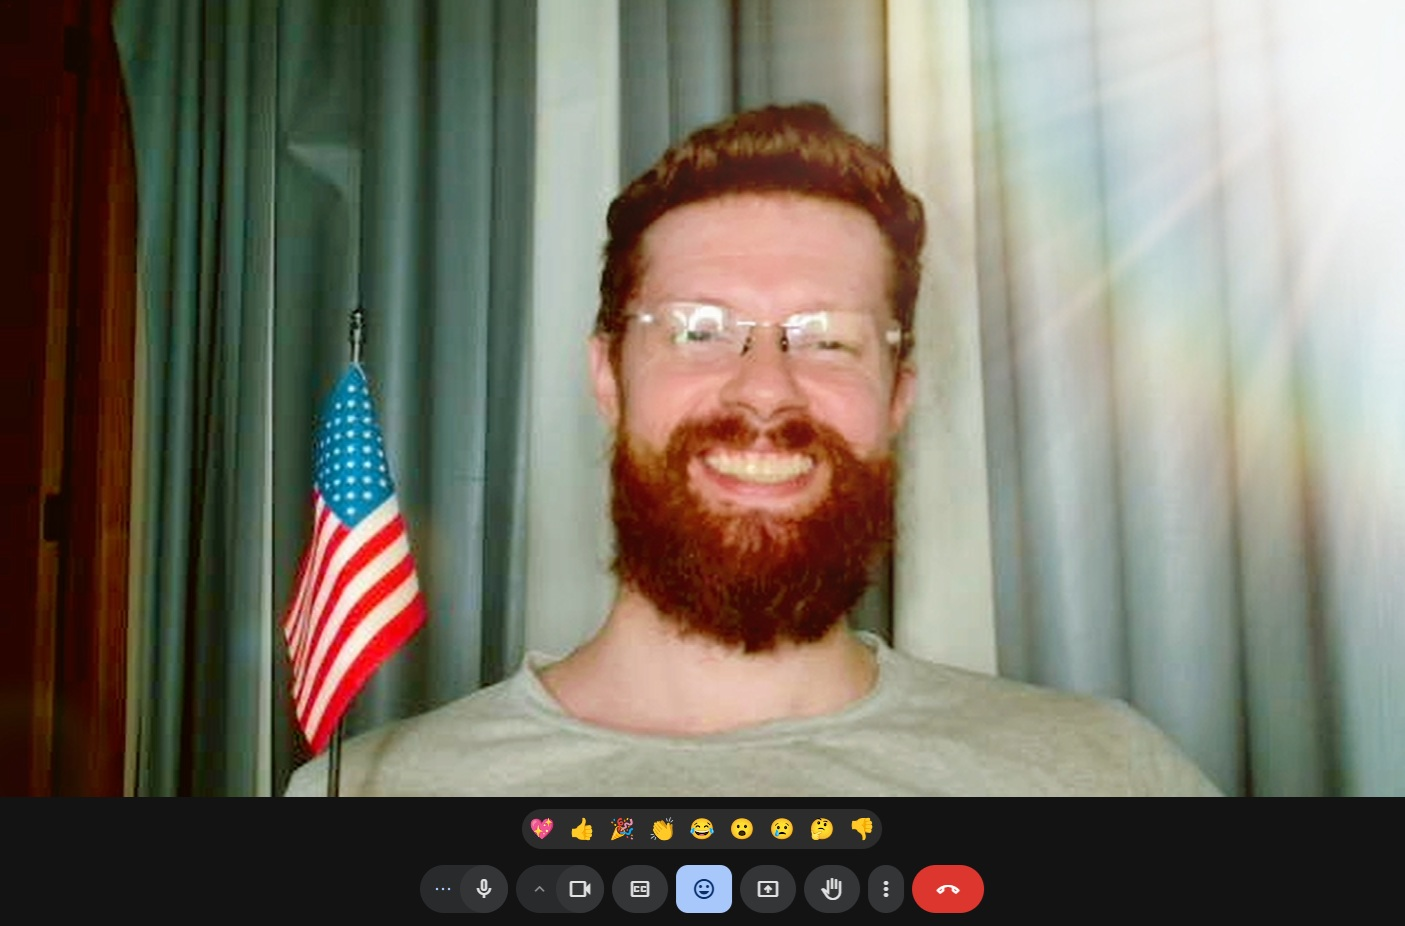
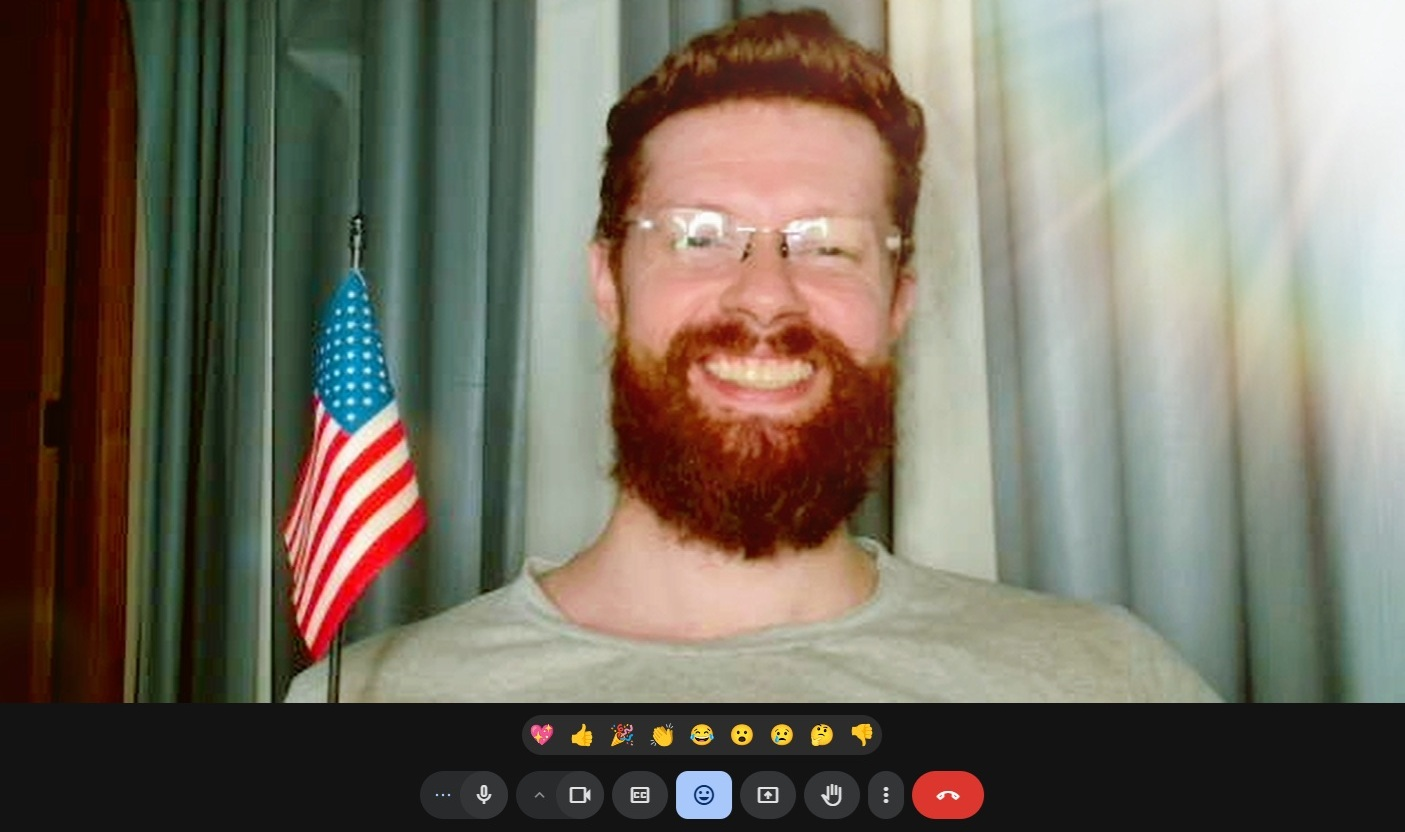
Removida secao que embeddava grande o video. Atualizacao de cortes nas imagens. Reordenacao dos itens de menu. SEO

diff --git a/ingles.html b/ingles.html
@@ -1,9 +1,80 @@
 <!DOCTYPE html>
-<html lang="pt-BR">
+<html lang="pt-BR" dir="ltr">
 <head>
     <meta charset="UTF-8">
     <meta name="viewport" content="width=device-width, initial-scale=1.0">
-    <title>Mentoria de Inglês | Encontro de Idiomas</title>
+    <title>Mentoria de Inglês | Aulas de Inglês Online | Encontro de Idiomas</title>
+    <meta name="description" content="Aprenda inglês de forma eficiente e personalizada com nossa metodologia exclusiva. Aulas online, professores qualificados e suporte contínuo. Conquiste fluência no inglês!">
+    <meta name="keywords" content="aulas de inglês, curso de inglês, mentoria inglês, professor de inglês online, aulas de inglês online, aprender inglês, inglês para negócios, curso de conversação em inglês, inglês fluente, como aprender inglês rápido">
+    <meta name="author" content="Encontro de Idiomas">
+    <meta name="robots" content="index, follow">
+    <meta property="og:title" content="Mentoria de Inglês | Encontro de Idiomas">
+    <meta property="og:description" content="Aprenda inglês de forma eficiente com mentoria personalizada. Desenvolva fluência e confiança para se comunicar em inglês.">
+    <meta property="og:type" content="website">
+    <meta property="og:url" content="https://encontrodeidiomas.com/">
+    <meta property="og:image" content="assets/images/logo.png">
+    <link rel="canonical" href="https://encontrodeidiomas.com/">
+    <link rel="icon" href="favicon.ico" type="image/x-icon">
+    <link rel="preload" href="assets/images/logo.png" as="image">
+    <link rel="preload" href="assets/images/slide1.jpg" as="image">
+    <link rel="preload" href="assets/images/videoaula.jpg" as="image">
+    <link rel="alternate" href="https://encontrodeidiomas.com/en/" hreflang="en">
+    <link rel="alternate" href="https://encontrodeidiomas.com/" hreflang="pt-BR">
+    <!-- Preconnect to external resources -->
+    <link rel="preconnect" href="https://www.youtube.com">
+    <link rel="preconnect" href="https://www.google-analytics.com">
+    <meta name="theme-color" content="#1c3055">
+    <!-- Structured Data for SEO -->
+    <script type="application/ld+json">
+    {
+      "@context": "https://schema.org",
+      "@type": "EducationalOrganization",
+      "name": "Encontro de Idiomas",
+      "description": "Mentoria de inglês com metodologia exclusiva. Aprenda inglês de forma eficiente e personalizada.",
+      "url": "https://encontrodeidiomas.com",
+      "logo": "https://encontrodeidiomas.com/assets/images/logo.png",
+      "contactPoint": {
+        "@type": "ContactPoint",
+        "telephone": "+55-61-99266-6148",
+        "contactType": "customer service",
+        "availableLanguage": ["Portuguese", "English"]
+      },
+      "address": {
+        "@type": "PostalAddress",
+        "addressCountry": "BR"
+      },
+      "offers": {
+        "@type": "Offer",
+        "category": "Aulas de inglês online",
+        "priceCurrency": "BRL",
+        "price": "250"
+      },
+      "sameAs": [
+        "https://www.facebook.com/encontrodeidiomas",
+        "https://www.instagram.com/encontrodeidiomas",
+        "https://www.youtube.com/channel/encontrodeidiomas"
+      ]
+    }
+    </script>
+    <script type="application/ld+json">
+    {
+      "@context": "https://schema.org",
+      "@type": "Course",
+      "name": "Mentoria de Inglês",
+      "description": "Aprenda inglês de forma eficiente e personalizada com nossa metodologia exclusiva.",
+      "provider": {
+        "@type": "Organization",
+        "name": "Encontro de Idiomas",
+        "sameAs": "https://encontrodeidiomas.com"
+      },
+      "offers": {
+        "@type": "Offer",
+        "price": "250",
+        "priceCurrency": "BRL",
+        "availability": "https://schema.org/InStock"
+      }
+    }
+    </script>
     <style>
         :root {
             --primary-color: #1c3055; /* Updated blue */
@@ -803,6 +874,18 @@
             font-size: 0.9rem;
         }
         
+        /* Accessibility */
+        .visually-hidden {
+            border: 0;
+            clip: rect(0 0 0 0);
+            height: 1px;
+            margin: -1px;
+            overflow: hidden;
+            padding: 0;
+            position: absolute;
+            width: 1px;
+        }
+        
         /* Media Queries */
         @media (max-width: 768px) {
             .hero-grid,
@@ -846,16 +929,18 @@
     <header>
         <div class="container nav-container">
             <div class="logo">
-                <img src="assets/images/logo.png" alt="Encontro de Idiomas">
-                Encontro de Idiomas
+                <img src="assets/images/logo.png" alt="Encontro de Idiomas" width="40" height="40">
+                <span>Encontro de Idiomas</span>
             </div>
-                <ul class="nav-menu">
-                    <li><a href="#beneficios">Benefícios</a></li>
-                <li><a href="#mentoria">A Mentoria</a></li>
-                <li><a href="#depoimentos">Depoimentos</a></li>
-                <li><a href="#precos">Preços</a></li>
-                    <li><a href="#contato">Contato</a></li>
-                </ul>
+                <nav aria-label="Navegação principal">
+                    <ul class="nav-menu" role="menubar">
+                        <li role="none"><a href="#depoimentos" role="menuitem">Depoimentos</a></li>
+                        <li role="none"><a href="#metodologia" role="menuitem">Metodologia</a></li>
+                        <li role="none"><a href="#beneficios" role="menuitem">Benefícios</a></li>
+                        <li role="none"><a href="#precos" role="menuitem">Investimento</a></li>
+                        <li role="none"><a href="#contato" role="menuitem">Contato</a></li>
+                    </ul>
+                </nav>
         </div>
     </header>
 
@@ -997,7 +1082,7 @@
             
             <div class="benefits-grid" style="display: grid; grid-template-columns: repeat(auto-fit, minmax(300px, 1fr)); gap: 30px; margin-top: 60px;">
                 <div class="benefit-card" style="background-color: var(--card-bg); padding: 30px; border-radius: 10px; transition: transform 0.3s; box-shadow: 0 5px 15px rgba(0,0,0,0.05);">
-                    <img src="assets/images/turma.jpg" alt="Aulas ao Vivo" style="width: 100%; height: 180px; object-fit: cover; border-radius: 8px; margin-bottom: 15px;">
+                    <img src="assets/images/videoaula.jpg" alt="Aulas ao Vivo" style="width: 100%; height: 180px; object-fit: cover; border-radius: 8px; margin-bottom: 15px;">
                     <h3 style="color: var(--primary-color); margin-bottom: 15px;">Aulas ao Vivo</h3>
                     <p>Aulas em chamadas de vídeo ao vivo com a turma, permitindo interação direta e prática conversacional.</p>
                 </div>
@@ -1051,26 +1136,6 @@
                     <li>Forma conexões e amizades entre os participantes</li>
                 </ul>
                 <p style="margin-top: 15px;">Os alunos estão adorando esta dinâmica, e os resultados têm sido extraordinários! Junte-se a nós e experimente esta forma revolucionária de aprender inglês!</p>
-            </div>
-        </div>
-    </section>
-
-    <!-- Mentorship Video Section -->
-    <section id="mentoria" style="background-color: var(--card-bg);">
-        <div class="container">
-            <div class="section-title">
-                <h2>Conheça Nossa Mentoria</h2>
-                <p>Assista ao vídeo e descubra como funciona nossa comunidade exclusiva de WhatsApp</p>
-            </div>
-            
-            <div style="display: flex; justify-content: center; align-items: center; margin-top: 60px;">
-                <div class="video-container">
-                    <iframe 
-                        src="https://www.youtube.com/embed/GGbp8oGMAL0" 
-                        frameborder="0" 
-                        allowfullscreen>
-                    </iframe>
-                </div>
             </div>
         </div>
     </section>
@@ -1180,10 +1245,26 @@
                     <div id="error-message" style="display: none; background-color: #f2dede; color: #a94442; padding: 15px; border-radius: 5px; margin-bottom: 20px;">
                         Ocorreu um erro ao enviar sua mensagem. Por favor, tente novamente.
                     </div>
-                    <form id="contact-form" style="display: flex; flex-direction: column; gap: 20px;">
-                        <input type="text" id="name" name="name" placeholder="Seu Nome" style="padding: 15px; border-radius: 5px; border: 1px solid #ddd;" required>
-                        <input type="email" id="email" name="email" placeholder="Seu E-mail" style="padding: 15px; border-radius: 5px; border: 1px solid #ddd;" required>
-                        <textarea id="message" name="message" placeholder="Sua Mensagem" rows="5" style="padding: 15px; border-radius: 5px; border: 1px solid #ddd; resize: vertical;" required></textarea>
+                    <form id="contact-form" style="display: flex; flex-direction: column; gap: 20px;" role="form" aria-labelledby="form-title">
+                        <h3 id="form-title" style="margin-bottom: 20px; color: var(--primary-color);">Envie sua Mensagem</h3>
+                        <div id="success-message" style="display: none; background-color: #dff0d8; color: #3c763d; padding: 15px; border-radius: 5px; margin-bottom: 20px;" role="alert" aria-live="assertive">
+                            Sua mensagem foi enviada com sucesso! Entraremos em contato em breve.
+                        </div>
+                        <div id="error-message" style="display: none; background-color: #f2dede; color: #a94442; padding: 15px; border-radius: 5px; margin-bottom: 20px;" role="alert" aria-live="assertive">
+                            Ocorreu um erro ao enviar sua mensagem. Por favor, tente novamente.
+                        </div>
+                        <div class="form-group">
+                            <label for="name" class="visually-hidden">Seu Nome</label>
+                            <input type="text" id="name" name="name" placeholder="Seu Nome" style="padding: 15px; border-radius: 5px; border: 1px solid #ddd; width: 100%;" required aria-required="true">
+                        </div>
+                        <div class="form-group">
+                            <label for="email" class="visually-hidden">Seu E-mail</label>
+                            <input type="email" id="email" name="email" placeholder="Seu E-mail" style="padding: 15px; border-radius: 5px; border: 1px solid #ddd; width: 100%;" required aria-required="true">
+                        </div>
+                        <div class="form-group">
+                            <label for="message" class="visually-hidden">Sua Mensagem</label>
+                            <textarea id="message" name="message" placeholder="Sua Mensagem" rows="5" style="padding: 15px; border-radius: 5px; border: 1px solid #ddd; resize: vertical; width: 100%;" required aria-required="true"></textarea>
+                        </div>
                         <button type="submit" class="cta-button" style="border: none; cursor: pointer;">Enviar Mensagem</button>
                     </form>
                 </div>
@@ -1411,7 +1492,7 @@
     </div>
 
     <!-- JavaScript -->
-    <script>
+    <script defer>
         // Slideshow functionality
         let slideIndex = 0;
         const slides = document.querySelectorAll('.slide');
